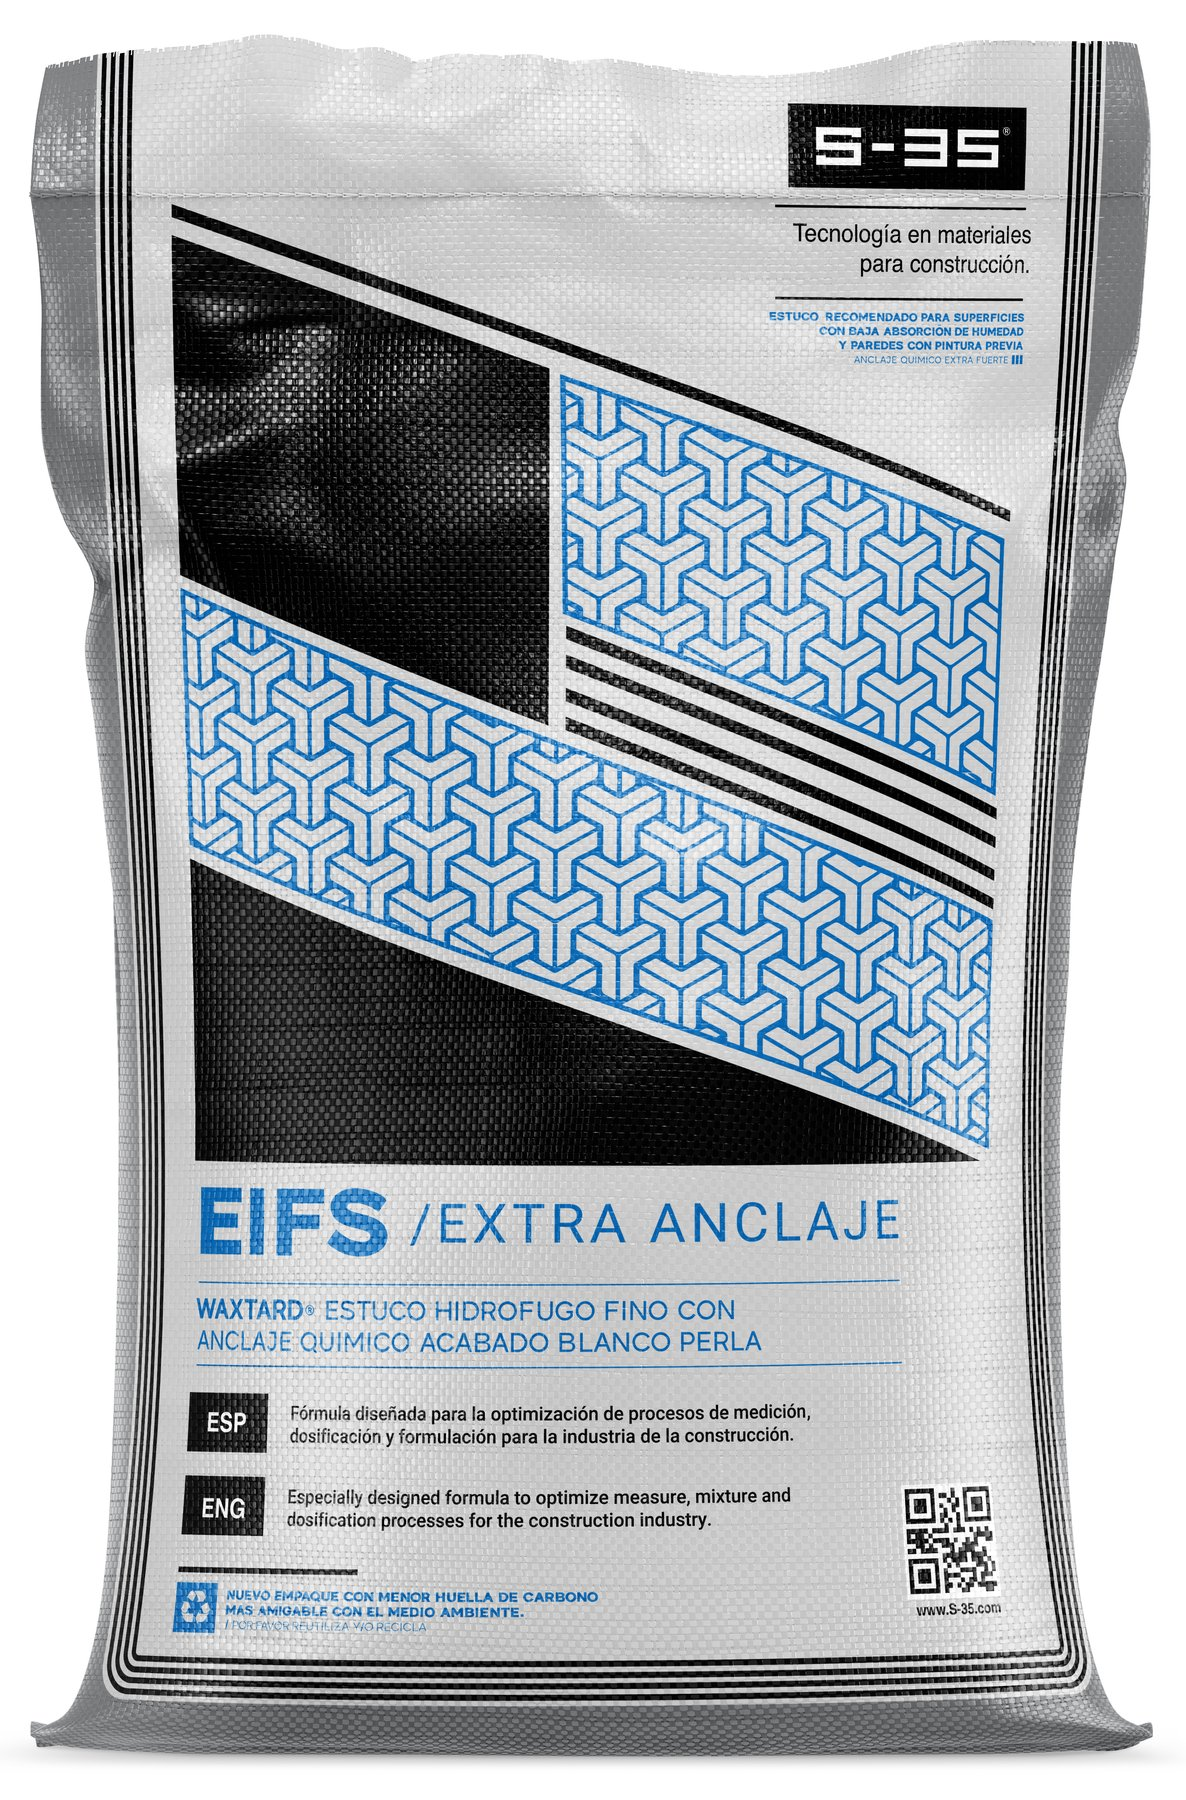
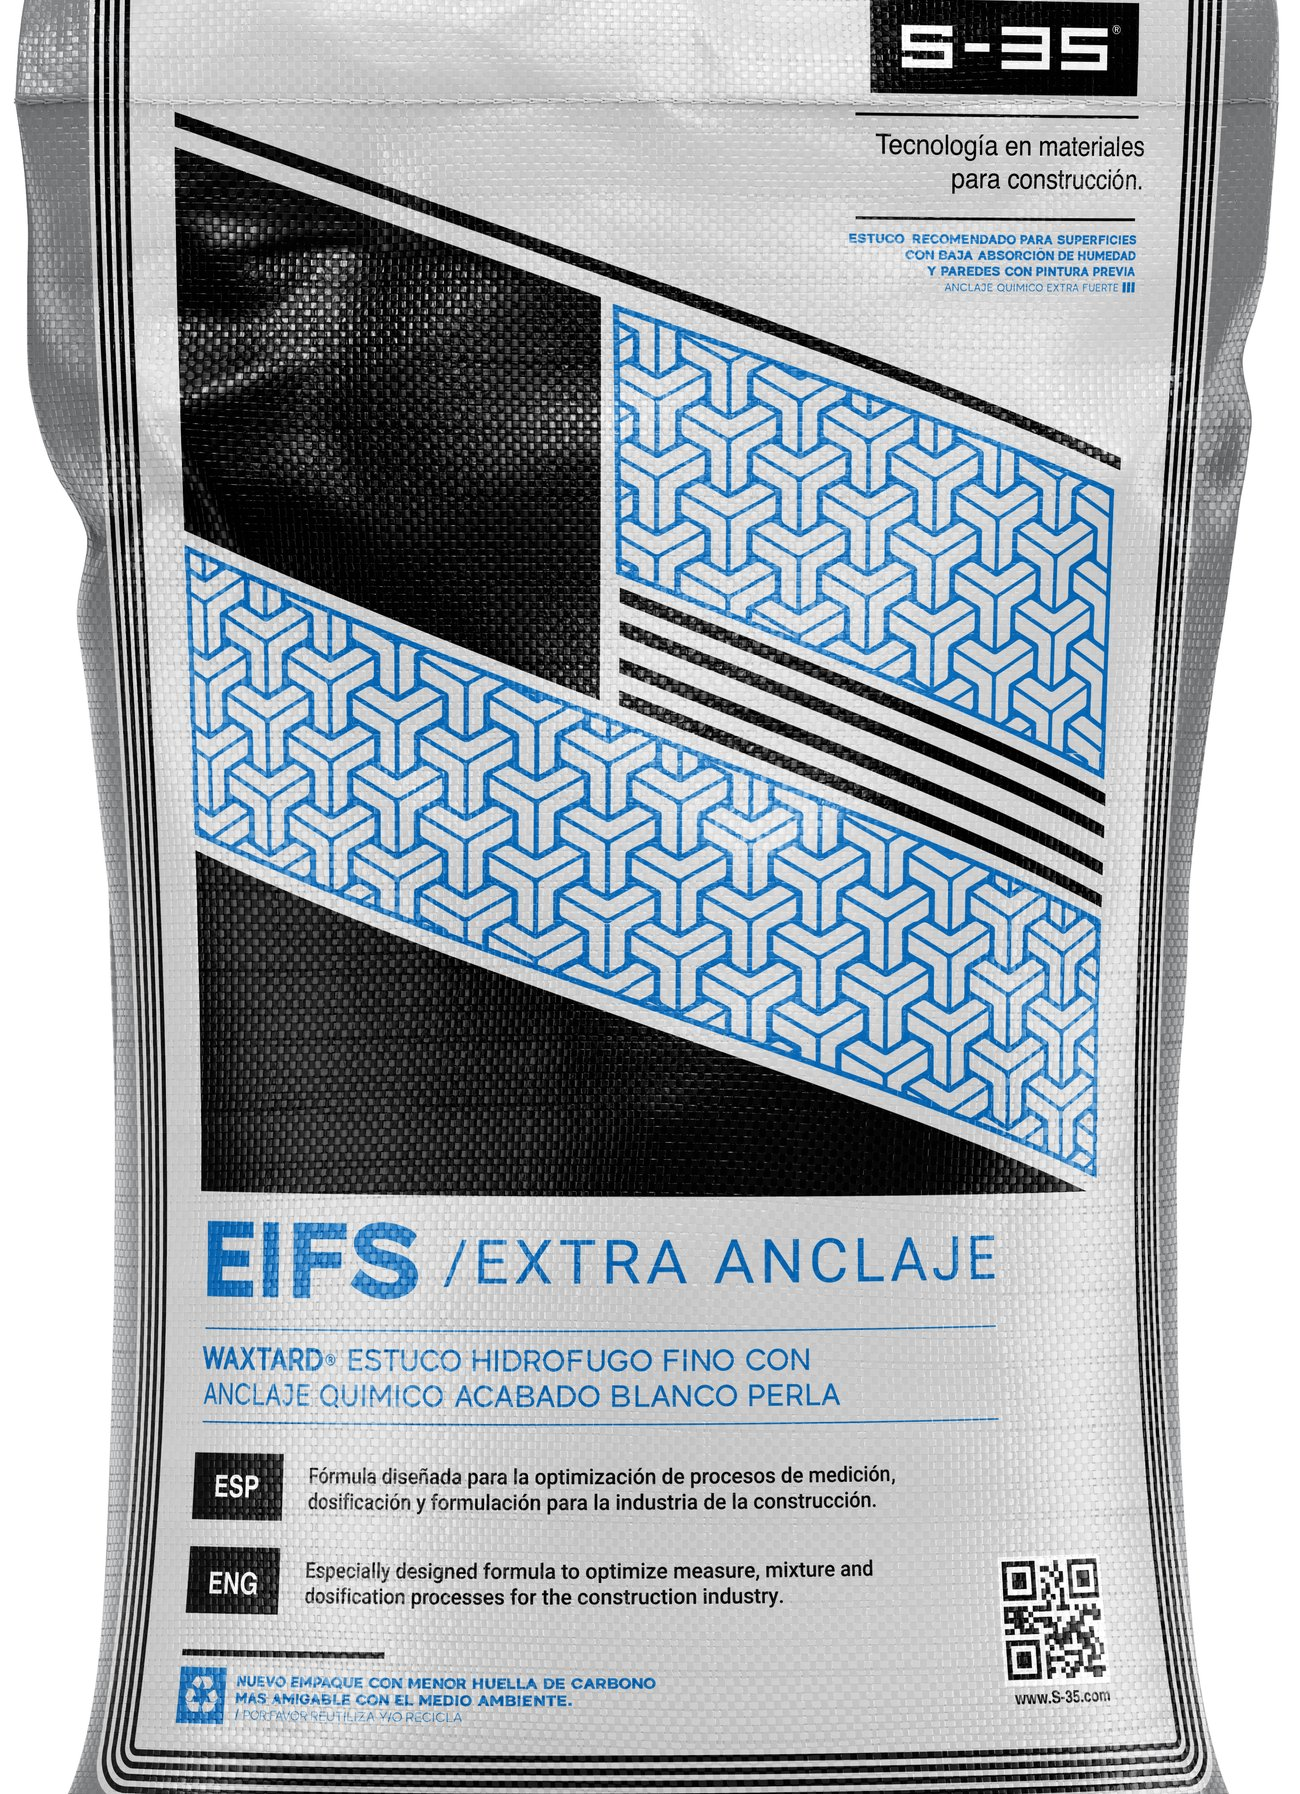
Igualar Extra Anclaje a los otros Waxtard: saco a cuadro y raya azul.
El recorte anterior dejaba fondo blanco y la tarjeta usaba el verde de Perla; ahora llena el recuadro y la raya sigue el azul del empaque.

diff --git a/public/catalogo.html b/public/catalogo.html
@@ -90,7 +90,7 @@
             <section class="catalog-family" id="estucos-premium" data-family="estucos-premium"><header class="catalog-family-head"><h2>Estucos premium</h2><span>4 productos</span><p>Estucos hidrófugos de acabado, línea Waxtard.</p></header><div class="product-grid"><article class="product-card" data-category="estucos-premium" style="--card-accent:#2f7d32"><a class="product-card-link" href="/productos/waxtard-blanco-perla"><div class="product-thumb"><img src="/Assets/productos_thumbs/WAXTARD-blanco-perla.jpg" alt="Saco de 25 kg de Waxtard Blanco Perla" loading="lazy" decoding="async"></div><div class="product-copy"><p class="product-kicker">Estucos premium</p><h3>WAXTARD</h3><p class="product-variant">Blanco Perla</p><p class="product-line">Estuco premium hidrófugo</p><p class="product-meta"><span>Saco 25 kg</span><span class="product-go">Ver ficha</span></p></div></a></article>
                 <article class="product-card" data-category="estucos-premium" style="--card-accent:#c62828"><a class="product-card-link" href="/productos/waxtard-blanco-absoluto"><div class="product-thumb"><img src="/Assets/productos_thumbs/WAXTARD-BLANCO-ABSOLUTO.jpg" alt="Saco de 25 kg de Waxtard Blanco Absoluto" loading="lazy" decoding="async"></div><div class="product-copy"><p class="product-kicker">Estucos premium</p><h3>WAXTARD</h3><p class="product-variant">Blanco Absoluto</p><p class="product-line">Estuco premium hidrófugo</p><p class="product-meta"><span>Saco 25 kg</span><span class="product-go">Ver ficha</span></p></div></a></article>
                 <article class="product-card" data-category="estucos-premium" style="--card-accent:#3d3d3d"><a class="product-card-link" href="/productos/waxtard-gris"><div class="product-thumb"><img src="/Assets/productos_thumbs/WAXTARD-gris.jpg" alt="Saco de 25 kg de Waxtard Gris" loading="lazy" decoding="async"></div><div class="product-copy"><p class="product-kicker">Estucos premium</p><h3>WAXTARD</h3><p class="product-variant">Gris</p><p class="product-line">Estuco premium hidrófugo</p><p class="product-meta"><span>Saco 25 kg</span><span class="product-go">Ver ficha</span></p></div></a></article>
-                <article class="product-card" data-category="estucos-premium" style="--card-accent:#2f7d32"><a class="product-card-link" href="/productos/waxtard-extra-anclaje"><div class="product-thumb"><img src="/Assets/productos_thumbs/WAXTARD-extra-anclaje.jpg" alt="Saco de 25 kg de Waxtard Extra Anclaje (EIFS Extra Anclaje)" loading="lazy" decoding="async"></div><div class="product-copy"><p class="product-kicker">Estucos premium</p><h3>WAXTARD</h3><p class="product-variant">Extra Anclaje</p><p class="product-line">Estuco hidrófugo fino con anclaje químico</p><p class="product-meta"><span>Saco 25 kg</span><span class="product-go">Ver ficha</span></p></div></a></article></div></section>
+                <article class="product-card" data-category="estucos-premium" style="--card-accent:#0060a8"><a class="product-card-link" href="/productos/waxtard-extra-anclaje"><div class="product-thumb"><img src="/Assets/productos_thumbs/WAXTARD-extra-anclaje.jpg" alt="Saco de 25 kg de Waxtard Extra Anclaje (EIFS Extra Anclaje)" loading="lazy" decoding="async"></div><div class="product-copy"><p class="product-kicker">Estucos premium</p><h3>WAXTARD</h3><p class="product-variant">Extra Anclaje</p><p class="product-line">Estuco hidrófugo fino con anclaje químico</p><p class="product-meta"><span>Saco 25 kg</span><span class="product-go">Ver ficha</span></p></div></a></article></div></section>
             <section class="catalog-family" id="microconcretos" data-family="microconcretos"><header class="catalog-family-head"><h2>Microconcretos</h2><span>1 producto</span><p>Acabados de concreto aparente aplicados en capas delgadas.</p></header><div class="product-grid"><article class="product-card" data-category="microconcretos" style="--card-accent:#5a5a5a"><a class="product-card-link" href="/productos/cemento-plastico-concreto"><div class="product-thumb"><img src="/Assets/productos_thumbs/cemento-plastico.jpg" alt="Saco de 25 kg de Cemento Plástico Concreto Aparente" loading="lazy" decoding="async"></div><div class="product-copy"><p class="product-kicker">Microconcretos</p><h3>CEMENTO PLÁSTICO</h3><p class="product-variant">Concreto Aparente</p><p class="product-line">Microconcreto de acabado · Dolphin Fin</p><p class="product-meta"><span>Saco 25 kg</span><span class="product-go">Ver ficha</span></p></div></a></article></div></section>
             <section class="catalog-family" id="panel-system" data-family="panel-system"><header class="catalog-family-head"><h2>Panel System</h2><span>2 productos</span><p>Recubrimientos de alta protección para sistemas de panel y fachada.</p></header><div class="product-grid"><article class="product-card" data-category="panel-system" style="--card-accent:#1a1a1a"><a class="product-card-link" href="/productos/basecoat-plus-blanco"><div class="product-thumb"><img src="/Assets/productos_thumbs/basecoat-blanco.jpg" alt="BASECOAT PLUS Blanco Absoluto" loading="lazy" decoding="async"></div><div class="product-copy"><p class="product-kicker">Panel System</p><h3>BASECOAT PLUS</h3><p class="product-variant">Blanco Absoluto</p><p class="product-line">Recubrimiento de alta protección para panel</p><p class="product-meta"><span>Saco 25 kg</span><span class="product-go">Ver ficha</span></p></div></a></article>
                 <article class="product-card" data-category="panel-system" style="--card-accent:#4a4a4a"><a class="product-card-link" href="/productos/basecoat-plus-gris"><div class="product-thumb"><img src="/Assets/productos_thumbs/basecoat.jpg" alt="BASECOAT PLUS Gris" loading="lazy" decoding="async"></div><div class="product-copy"><p class="product-kicker">Panel System</p><h3>BASECOAT PLUS</h3><p class="product-variant">Gris</p><p class="product-line">Recubrimiento de alta protección para panel</p><p class="product-meta"><span>Saco 25 kg</span><span class="product-go">Ver ficha</span></p></div></a></article></div></section>

diff --git a/public/productos/waxtard-extra-anclaje.html b/public/productos/waxtard-extra-anclaje.html
@@ -12,14 +12,14 @@
 <meta property="og:title" content="WAXTARD Extra Anclaje | Estuco hidrófugo fino con anclaje químico | S-35 Technology">
 <meta property="og:description" content="Waxtard Extra Anclaje: estuco hidrófugo fino con anclaje químico para sustratos lisos, concreto cimbrado, EIFS y pintura firme. Saco de 25 kg.">
 <meta property="og:image" content="https://www.s-35.com.mx/Assets/productos_background/WAXTARD-extra-anclaje.jpg">
-<meta name="theme-color" content="#2f7d32">
+<meta name="theme-color" content="#0060a8">
 <link rel="stylesheet" href="/styles.css">
 <link rel="stylesheet" href="/productos/productos.css">
 <link href="https://fonts.googleapis.com/css2?family=EB+Garamond:ital,wght@0,400;1,400&display=swap" rel="stylesheet">
 <link rel="stylesheet" href="https://cdnjs.cloudflare.com/ajax/libs/font-awesome/6.0.0/css/all.min.css">
 <script type="application/ld+json">{"@context":"https://schema.org","@type":"Product","name":"WAXTARD Extra Anclaje","description":"Waxtard Extra Anclaje: estuco hidrófugo fino con anclaje químico para sustratos lisos, concreto cimbrado, EIFS y pintura firme. Saco de 25 kg.","category":"Estucos premium","brand":{"@type":"Brand","name":"S-35"},"manufacturer":{"@type":"Organization","name":"S-35 Technology"},"image":"https://www.s-35.com.mx/Assets/productos_background/WAXTARD-extra-anclaje.jpg","url":"https://www.s-35.com.mx/productos/waxtard-extra-anclaje"}</script>
 </head>
-<body class="pr-page" style="--pr-accent:#2f7d32">
+<body class="pr-page" style="--pr-accent:#0060a8">
 <nav class="nav">
   <div class="nav-container">
     <div class="nav-logo"><a href="/"><img src="/Assets/Logotipo Principal.png" alt="S-35 Technology" class="logo-image"></a></div>

diff --git a/content/products/items/waxtard-extra-anclaje.js b/content/products/items/waxtard-extra-anclaje.js
@@ -13,7 +13,7 @@ module.exports = draft({
   name: 'WAXTARD',
   variant: 'Extra Anclaje',
   line: 'Estuco hidrófugo fino con anclaje químico',
-  accent: '#2f7d32',
+  accent: '#0060a8',
   packaging: '25 kg',
   description: 'Waxtard Extra Anclaje: estuco hidrófugo fino con anclaje químico para sustratos lisos, concreto cimbrado, EIFS y pintura firme. Saco de 25 kg.',
   strip: [
